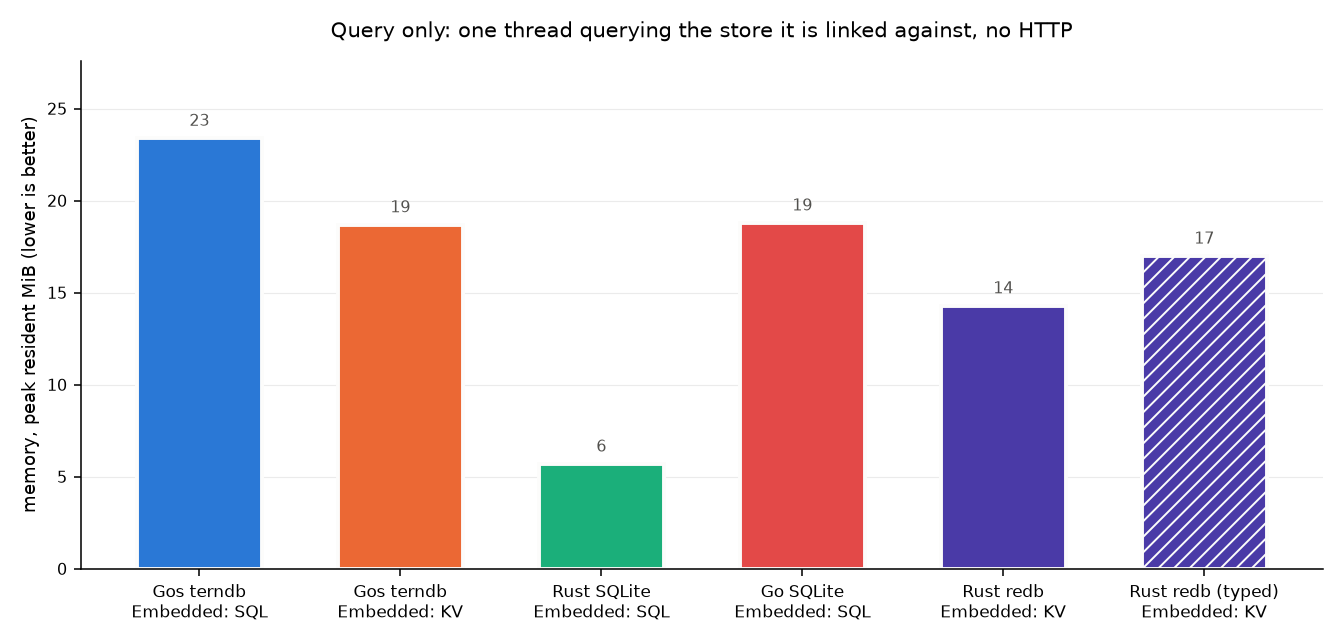
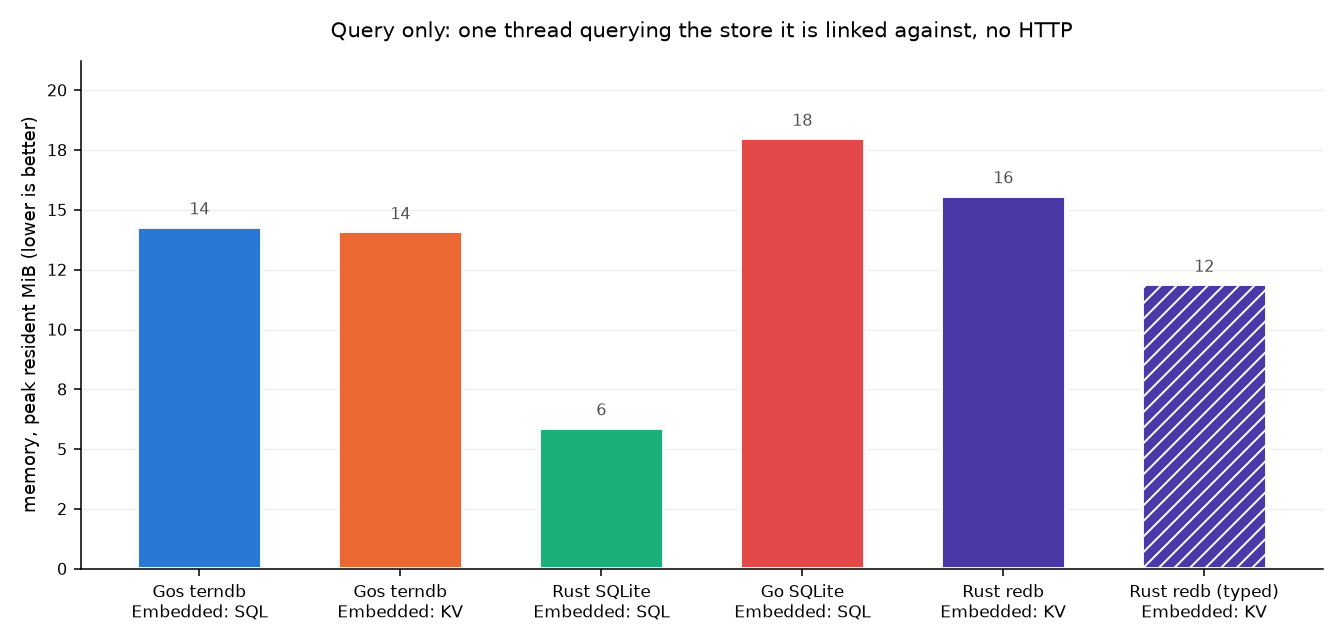
Updating benchmarks

diff --git a/benchmarks/charts/index.html b/benchmarks/charts/index.html
@@ -19,6 +19,8 @@ On 24 cores (Linux 7.0.0-31-generic).</p>
 <figure><img src="web-embedded-db-response-rate.png" alt="Web server, embedded DB: the store in the web server's own process - response rate, HTTP requests / second"><figcaption>Web server, embedded DB: the store in the web server's own process - response rate, HTTP requests / second</figcaption></figure>
 <figure><img src="web-embedded-db-cpu.png" alt="Web server, embedded DB: the store in the web server's own process - CPU, microseconds / request"><figcaption>Web server, embedded DB: the store in the web server's own process - CPU, microseconds / request</figcaption></figure>
 <figure><img src="web-embedded-db-memory.png" alt="Web server, embedded DB: the store in the web server's own process - memory, peak resident MiB under load"><figcaption>Web server, embedded DB: the store in the web server's own process - memory, peak resident MiB under load</figcaption></figure>
+<figure><img src="query-only-queries.png" alt="Query only: one thread querying the store it is linked against, no HTTP - queries / second"><figcaption>Query only: one thread querying the store it is linked against, no HTTP - queries / second</figcaption></figure>
+<figure><img src="query-only-memory.png" alt="Query only: one thread querying the store it is linked against, no HTTP - memory, peak resident MiB"><figcaption>Query only: one thread querying the store it is linked against, no HTTP - memory, peak resident MiB</figcaption></figure>
 <table>
   <caption>Every HTTP target, sorted by response rate. The store runs in the
   web server's own process, so the memory is that one process.</caption>
@@ -40,11 +42,11 @@ On 24 cores (Linux 7.0.0-31-generic).</p>
   returns. The memory is the whole process, which is what the store costs to
   run.</caption>
   <tr><th>target</th><th>queries/s</th><th>memory, peak MiB</th></tr>
-  <tr><td>gos-kv Embedded:  (gos-kv)</td><td>9,567,232</td><td>14.1</td></tr>
-<tr><td>gos-sql Embedded:  (gos-sql)</td><td>8,468,480</td><td>14.3</td></tr>
-<tr><td>rust-redb Embedded:  (rust-redb)</td><td>2,588,817</td><td>15.6</td></tr>
-<tr><td>rust-redb-typed Embedded:  (rust-redb-typed)</td><td>1,947,658</td><td>11.9</td></tr>
-<tr><td>rust-sqlite Embedded:  (rust-sqlite)</td><td>697,874</td><td>5.9</td></tr>
-<tr><td>go-sqlite Embedded:  (go-sqlite)</td><td>103,935</td><td>18.0</td></tr>
+  <tr><td>Gos terndb Embedded: KV (gos-terndb-embedded-kv)</td><td>9,567,232</td><td>14.1</td></tr>
+<tr><td>Gos terndb Embedded: SQL (gos-terndb-embedded-sql)</td><td>8,468,480</td><td>14.3</td></tr>
+<tr><td>Rust redb Embedded: KV (rust-redb-embedded-kv)</td><td>2,588,817</td><td>15.6</td></tr>
+<tr><td>Rust redb (typed) Embedded: KV (rust-redb-embedded-kv-typed)</td><td>1,947,658</td><td>11.9</td></tr>
+<tr><td>Rust SQLite Embedded: SQL (rust-sqlite-embedded-sql)</td><td>697,874</td><td>5.9</td></tr>
+<tr><td>Go SQLite Embedded: SQL (go-sqlite-embedded-sql)</td><td>103,935</td><td>18.0</td></tr>
 
 </table>
